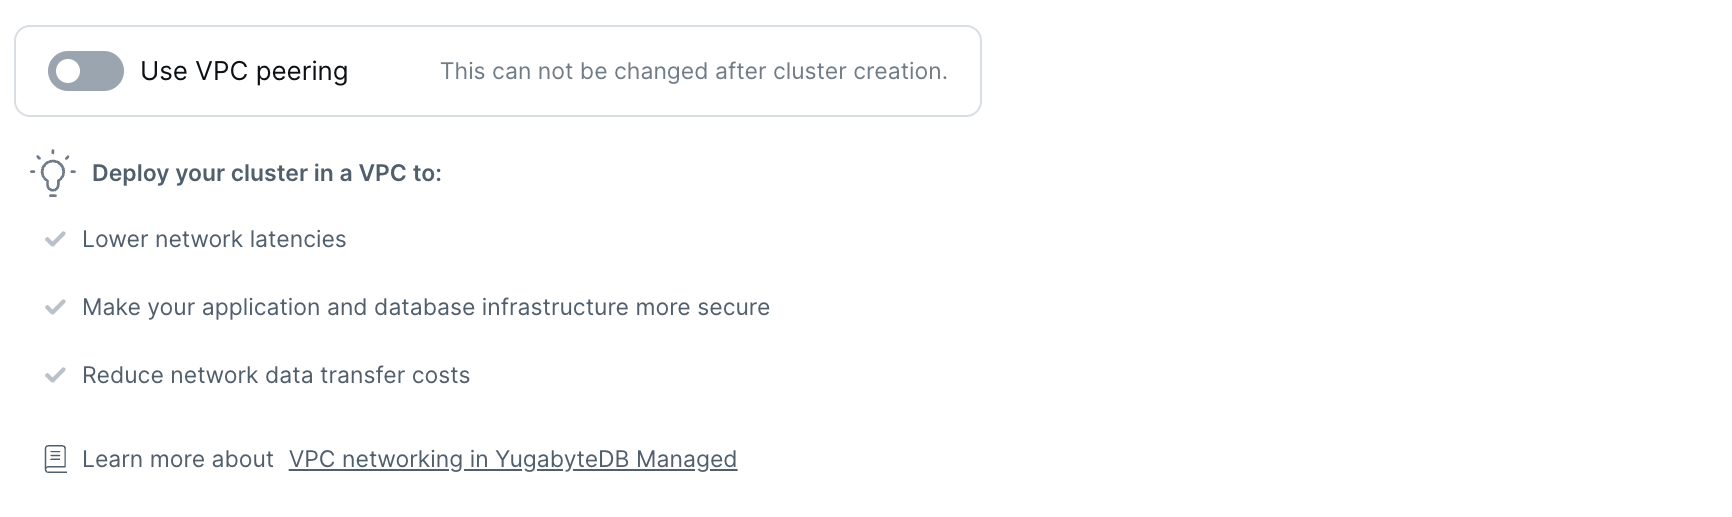
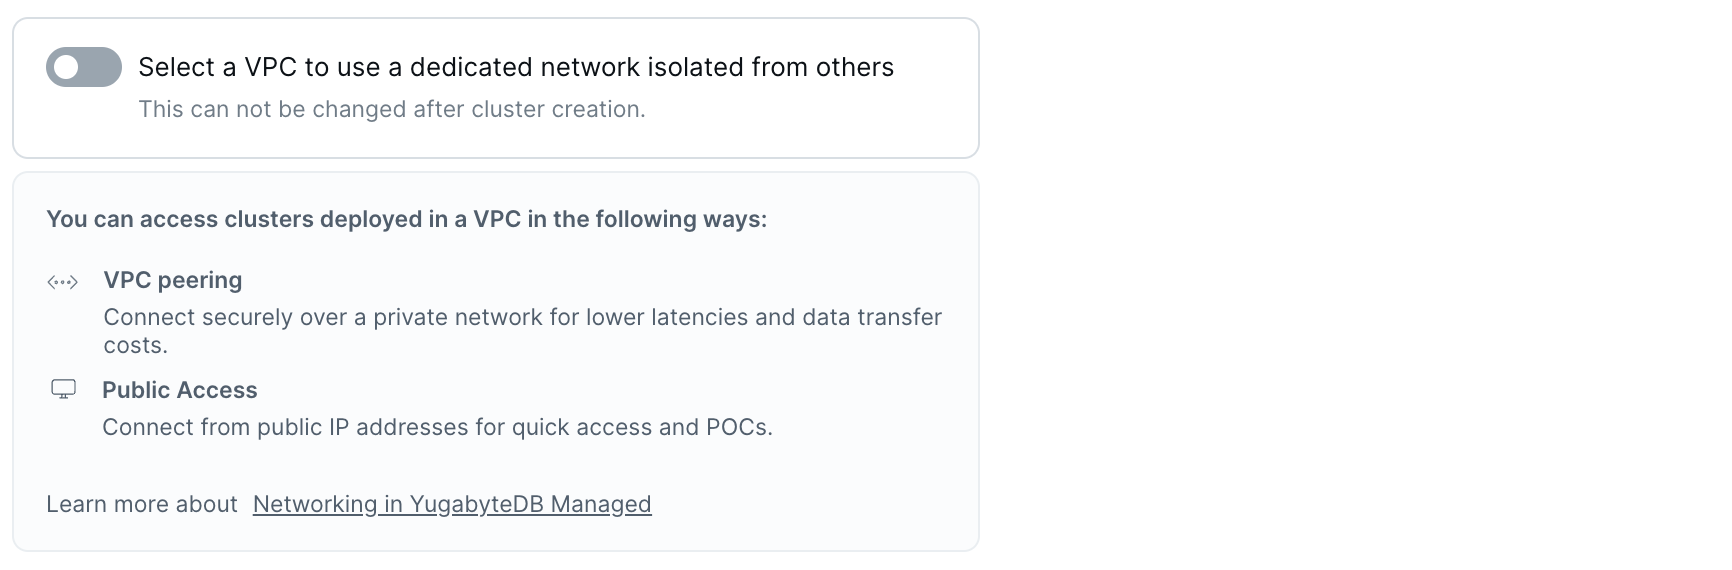
edits, screenshots

diff --git a/docs/content/preview/yugabyte-cloud/cloud-basics/create-clusters/create-single-region.md b/docs/content/preview/yugabyte-cloud/cloud-basics/create-clusters/create-single-region.md
@@ -84,9 +84,11 @@ Monthly total costs for the cluster are based on the number of vCPUs and estimat
 
 ![Add Cluster Wizard - Configure VPC](/images/yb-cloud/cloud-addcluster-paid3.3.png)
 
-To use a VPC for network isolation and security, select **Select a VPC to use a dedicated network isolated from others**, then select the VPC. Only VPCs using the selected cloud provider are listed. The VPC must be created before deploying the cluster. Refer to [VPC networking](../../cloud-vpcs/).
+To use a VPC for network isolation and security, choose **Select a VPC to use a dedicated network isolated from others**, then select the VPC. Only VPCs using the selected cloud provider are listed. The VPC must be created before deploying the cluster. Refer to [VPC networking](../../cloud-vpcs/).
 
 {{% includeMarkdown "network-access.md" %}}
+
+{{% includeMarkdown "include-security-settings.md" %}}
 
 ### Database Credentials
 

diff --git a/docs/content/preview/yugabyte-cloud/cloud-basics/cloud-vpcs/cloud-vpc-intro.md b/docs/content/preview/yugabyte-cloud/cloud-basics/cloud-vpcs/cloud-vpc-intro.md
@@ -129,7 +129,7 @@ You can calculate ranges beforehand using [IP Address Guide's CIDR to IPv4 Conve
 
 ### Restrictions
 
-Addresses have the following additional restrictions:
+If you are using VPC peering, addresses have the following additional restrictions:
 
 - VPC addresses can overlap with other VPCs, but not in the following circumstances:
   - You want to use the VPCs for the same multi-region cluster in AWS. For example, if you have two VPCs in different regions with overlapping addresses, you won't be able to use both for deploying a multi-region cluster.

diff --git a/docs/content/preview/yugabyte-cloud/cloud-basics/create-clusters/create-clusters-geopartition.md b/docs/content/preview/yugabyte-cloud/cloud-basics/create-clusters/create-clusters-geopartition.md
@@ -99,6 +99,8 @@ Monthly total costs for the cluster are based on the number of vCPUs and estimat
 
 {{% includeMarkdown "network-access.md" %}}
 
+{{% includeMarkdown "include-security-settings.md" %}}
+
 ### Database Credentials
 
 The database admin credentials are required to connect to the YugabyteDB database that is installed on the cluster.
